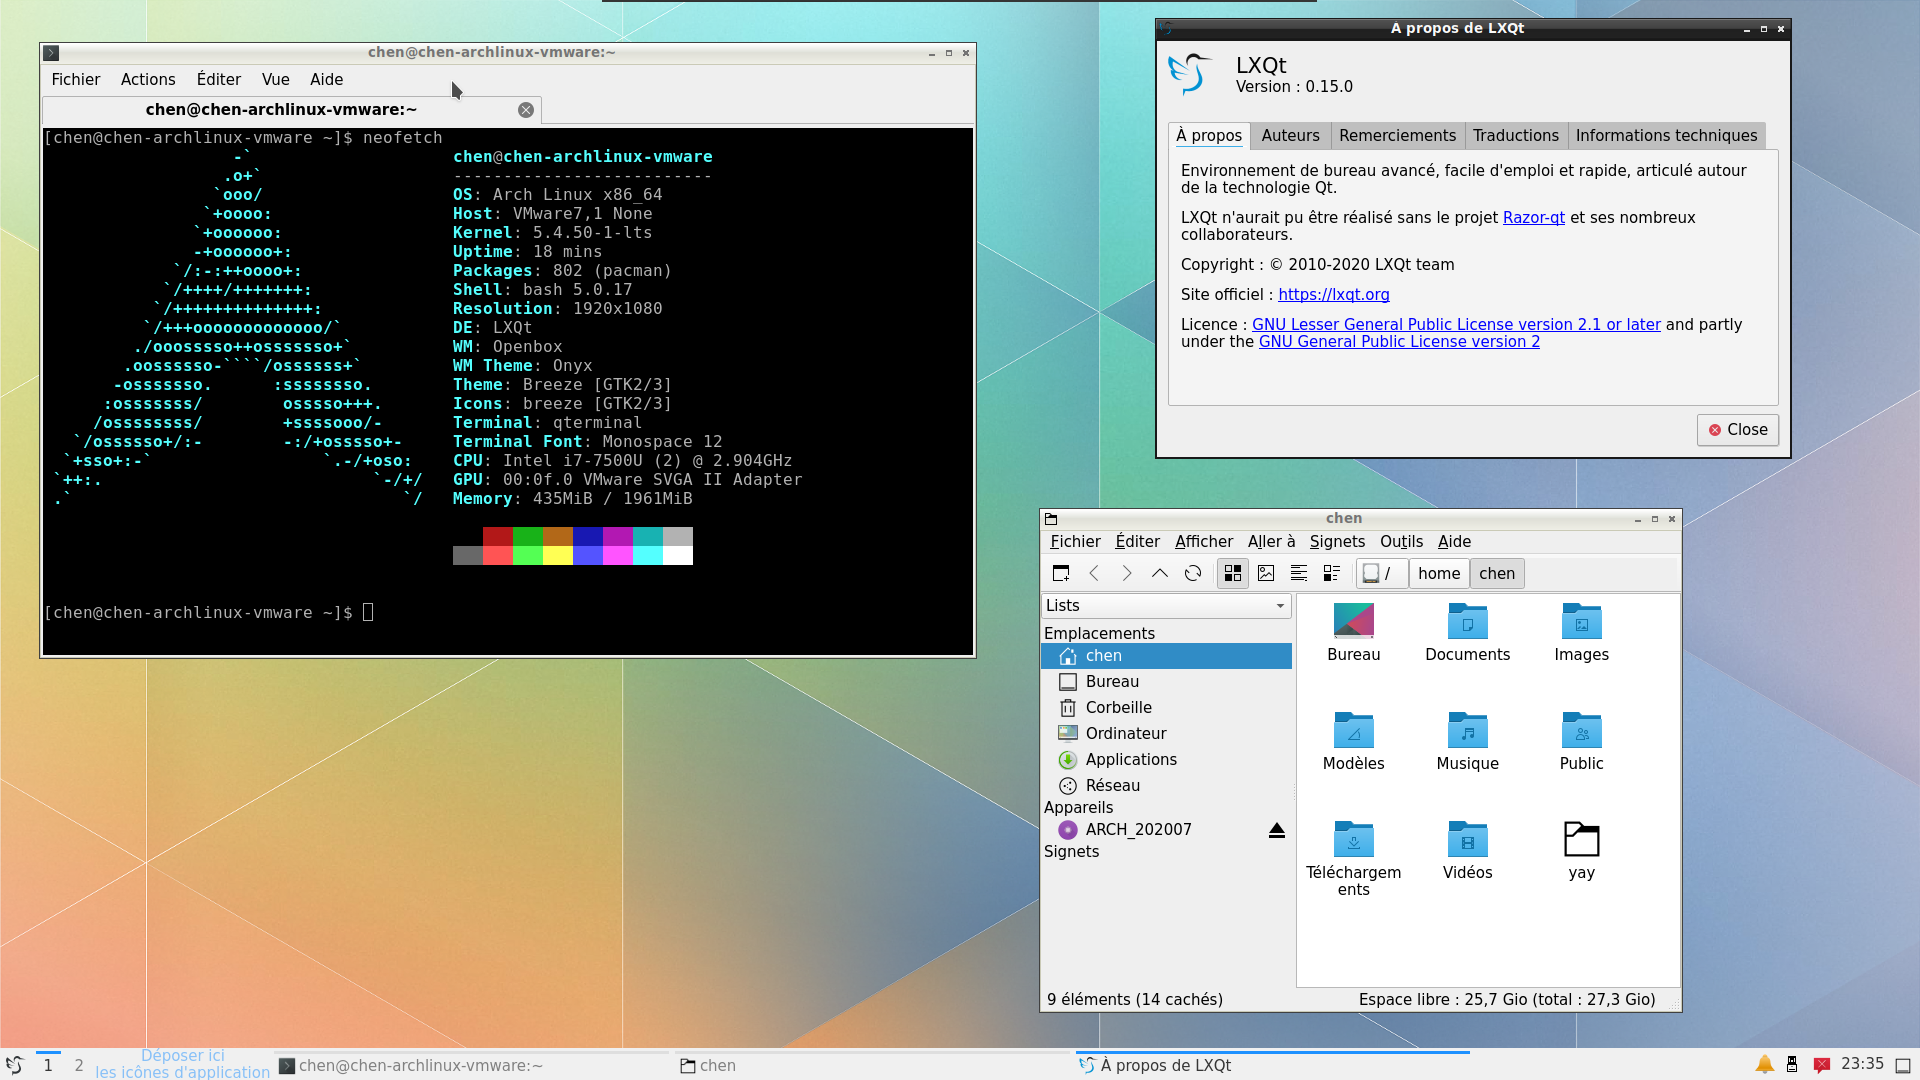
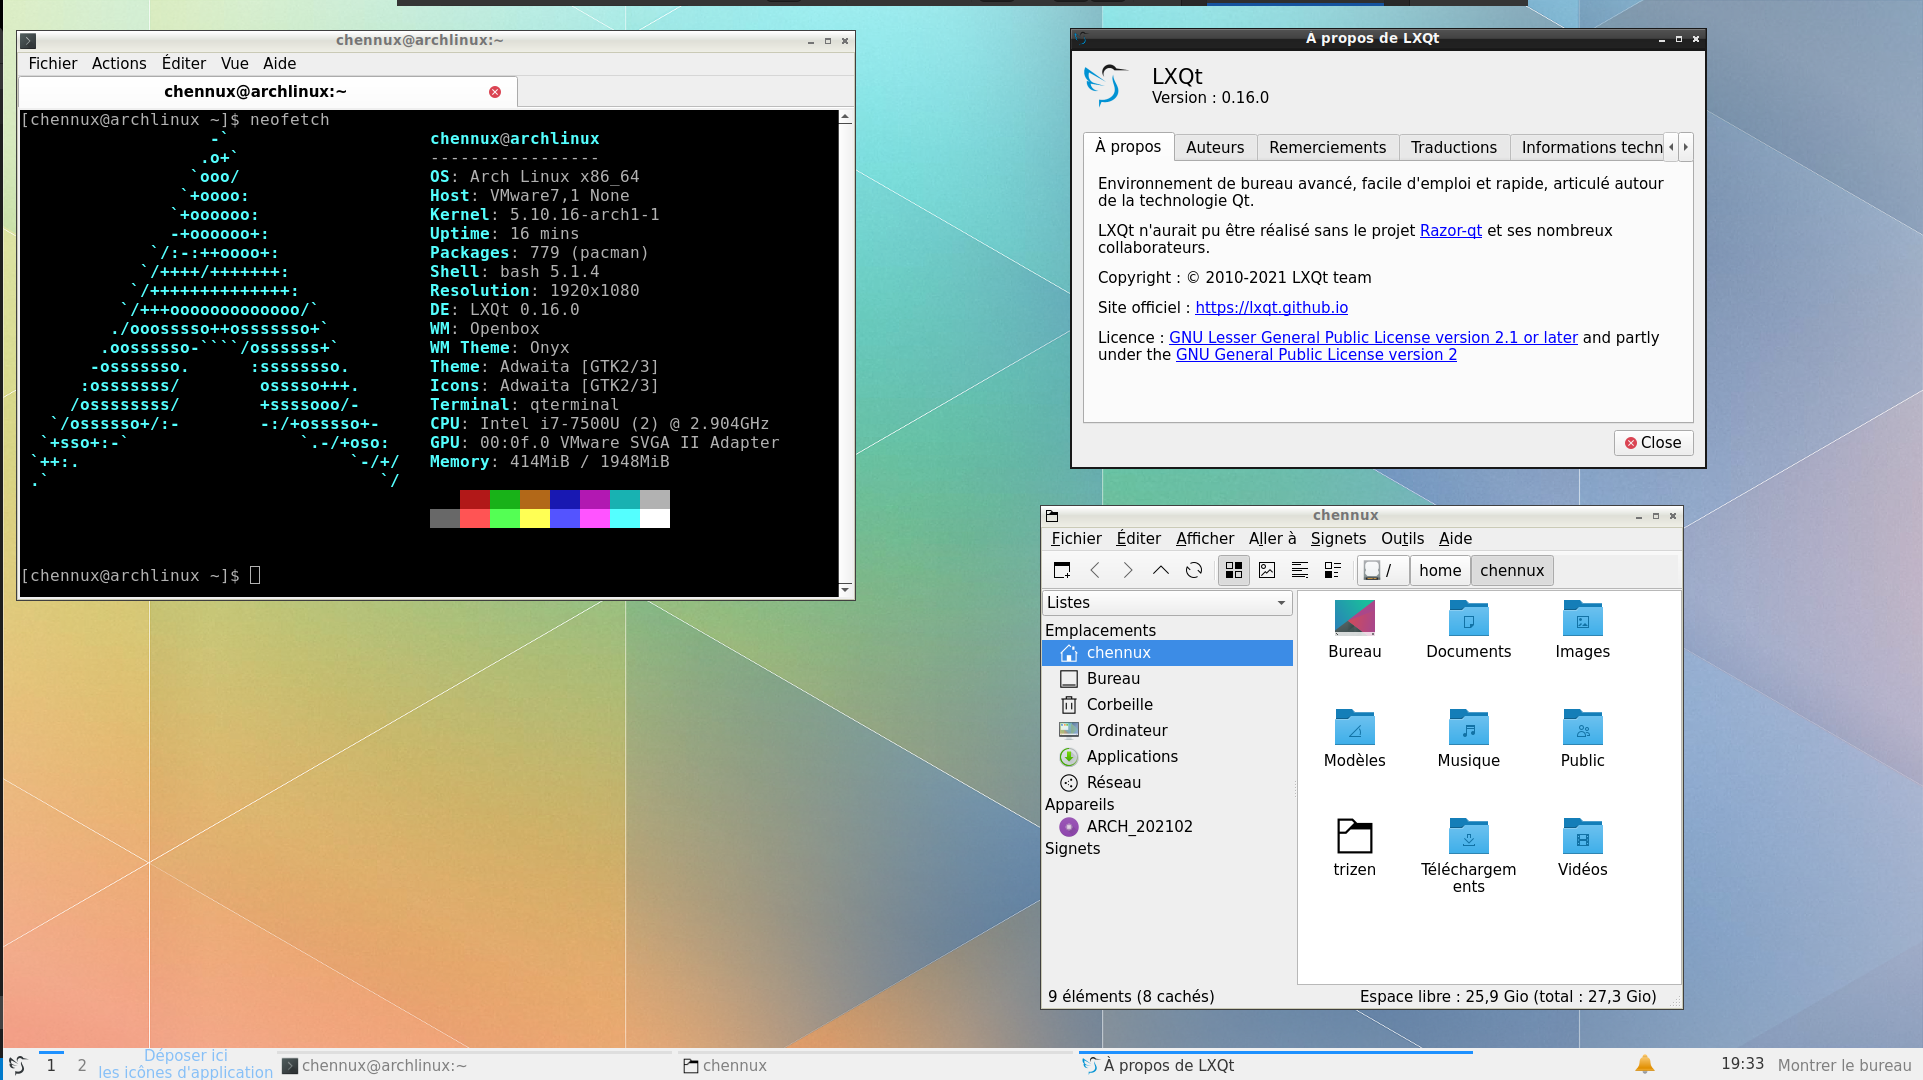
Auteur :     ChenNux 	modifié :         install.md 	modifié :         pictures/019.png

diff --git a/install.md b/install.md
@@ -871,13 +871,13 @@ Si tout se passe bien, on peut utiliser :
 sudo systemctl enable sddm
 ```
 
-![Illustration 18: LXDE dans VMWare](pictures/018.png)
+![Illustration 18: LXDE](pictures/018.png)
 
-*Illustration 18: LXDE dans VMWare*
+*Illustration 18: LXDE*
 
-![Illustration 19: LXQt 0.15 dans VMWare, avec le thème Breeze](pictures/019.png)
+![Illustration 19: LXQt 0.16](pictures/019.png)
 
-*Illustration 19: LXQt 0.15 dans VMWare, avec le thème Breeze*
+*Illustration 19: LXQt 0.16 dans VMWare*
 
 Voila, le guide est maintenant fini. Cependant, je n’ai pas abordé l’installation d’un pare-feu. C’est quelque chose de plus technique.
 
